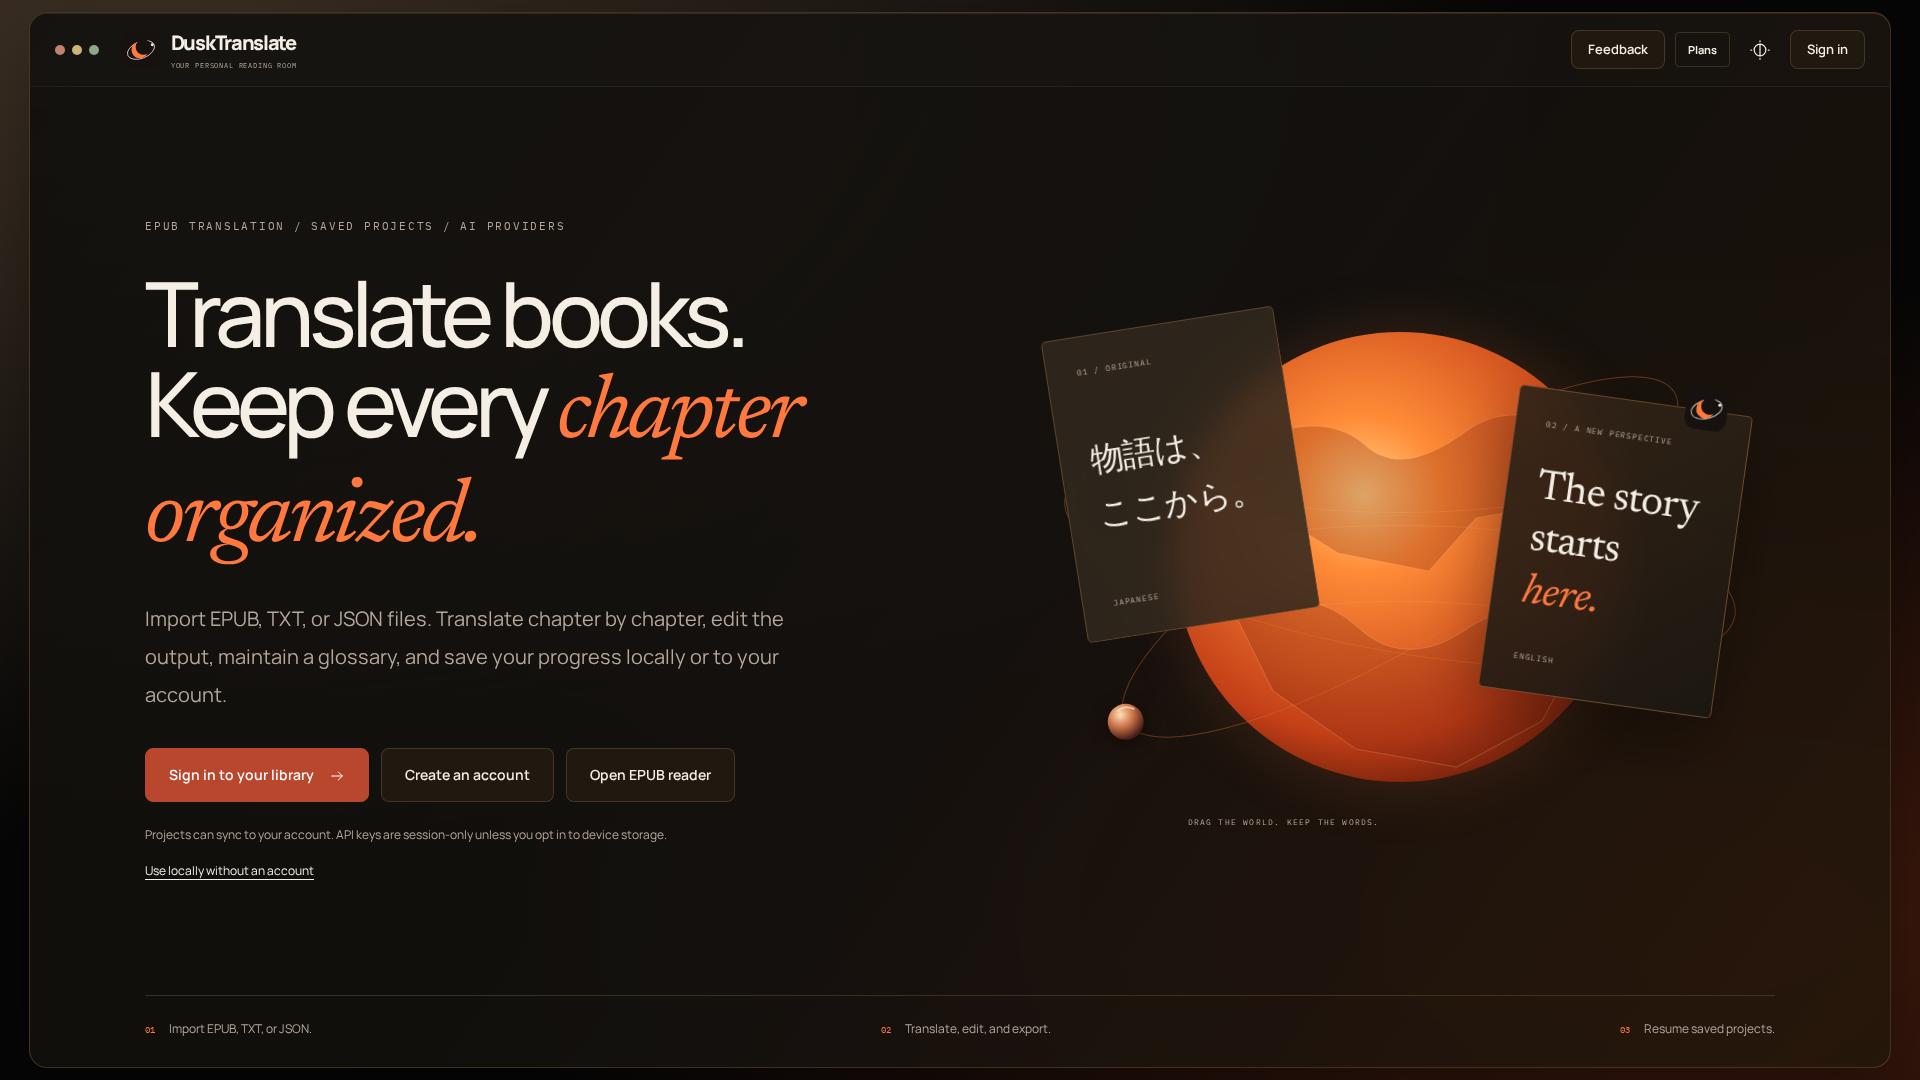
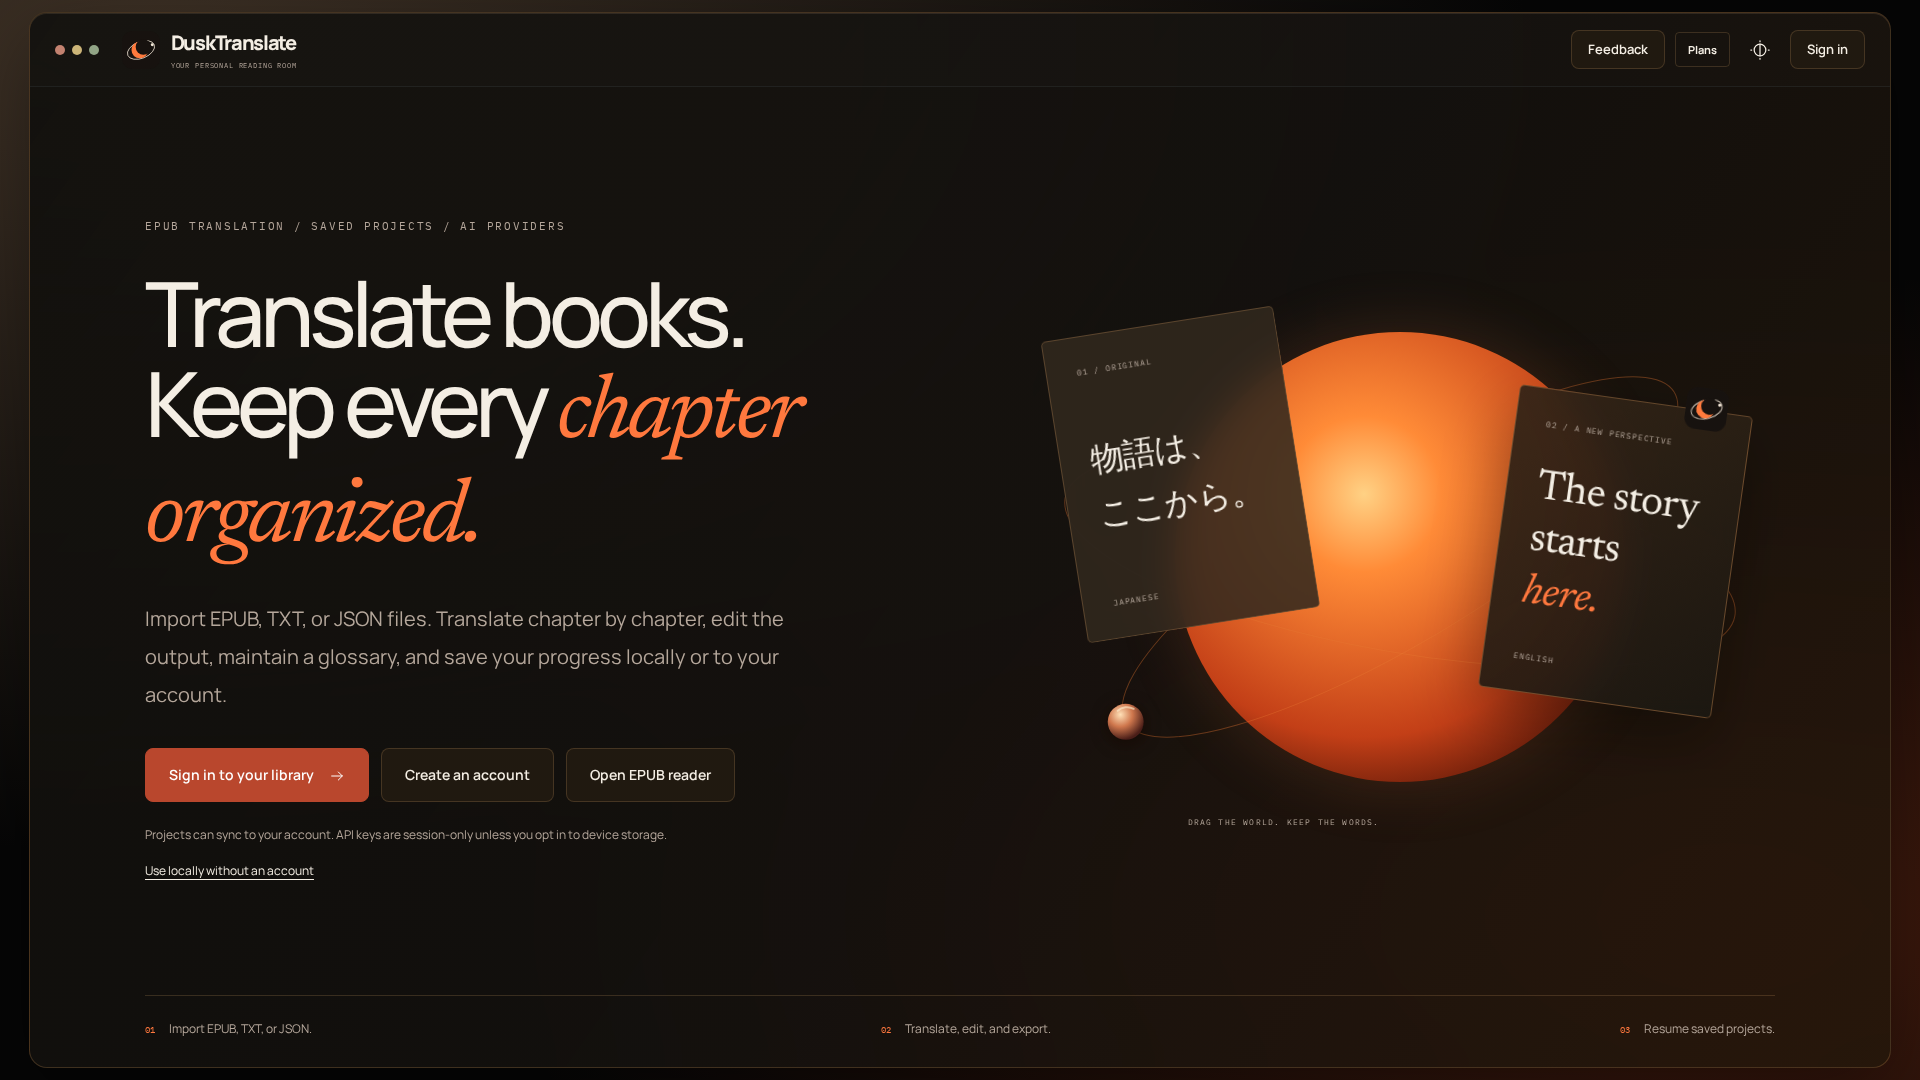
Fix globe dragging, orbit continuity, and card fading

Changed region(s): [[0.6562, 0.3667, 0.7812, 0.55], [0.6562, 0.55, 0.75, 0.6417]]

diff --git a/web/src/welcome-planet.js b/web/src/welcome-planet.js
@@ -1,77 +1,73 @@
-const HEAVEN_THRESHOLD = 1440;
-
 export function createWelcomePlanet(stage, sequence) {
   if (!stage) return { destroy() {} };
-  const rotor=stage.querySelector('.planet-drag-spin'),moons=[...stage.querySelectorAll('.moon-revolution')];
-  const reduceMotion=matchMedia('(prefers-reduced-motion: reduce)').matches;
-  let angle=0,totalTurn=0,pointerId=null,lastX=0,lastTime=0,velocity=0,frame=null,moonFrame=null,moonPhase=Math.PI,moonTime=null,sequenceTimer=null,triggered=false;
-
-  const placeMoon=phase=>{
-    const localX=320*Math.cos(phase),localY=85*Math.sin(phase),tilt=-31*Math.PI/180;
-    const x=350+localX*Math.cos(tilt)-localY*Math.sin(tilt),y=290+localX*Math.sin(tilt)+localY*Math.cos(tilt);
-    for(const moon of moons)moon.setAttribute('transform',`translate(${x.toFixed(2)} ${y.toFixed(2)})`);
-    const front=Math.sin(phase)>=0;
-    stage.querySelector('.moon-front').style.visibility=front?'visible':'hidden';
-    stage.querySelector('.moon-back').style.visibility=front?'hidden':'visible';
-  };
-  const orbitMoon=now=>{
-    const duration=stage.classList.contains('is-spinning')?900:16000;
-    if(moonTime===null)moonTime=now;
-    moonPhase+=(now-moonTime)/duration*Math.PI*2;moonTime=now;placeMoon(moonPhase);
-    moonFrame=requestAnimationFrame(orbitMoon);
-  };
-  placeMoon(moonPhase);
-  if(!reduceMotion)moonFrame=requestAnimationFrame(orbitMoon);
-
-  const render=(speed=0)=>{
-    rotor.style.transform=`rotate(${angle}deg)`;
-    const opacity=Math.max(.08,1-Math.min(Math.abs(speed)/18,.92));
-    stage.style.setProperty('--card-opacity',String(opacity));
-  };
-  const triggerSequence=()=>{
-    if(triggered||!sequence)return;
-    triggered=true;sequence.hidden=false;
-    requestAnimationFrame(()=>sequence.classList.add('is-running'));
-    sequenceTimer=setTimeout(()=>{sequence.classList.remove('is-running');sequence.hidden=true;},6200);
-  };
-  const turn=delta=>{
-    angle+=delta;totalTurn+=Math.abs(delta);render(delta);
-    if(totalTurn>=HEAVEN_THRESHOLD)triggerSequence();
-  };
-  const stopInertia=()=>{if(frame!==null)cancelAnimationFrame(frame);frame=null;};
-  const coast=()=>{
-    angle+=velocity;velocity*=.94;render(velocity);
-    if(Math.abs(velocity)>.08){frame=requestAnimationFrame(coast);return;}
-    frame=null;stage.classList.remove('is-spinning');stage.style.setProperty('--card-opacity','1');
-  };
-  const release=event=>{
-    if(pointerId===null||event.pointerId!==pointerId)return;
-    pointerId=null;stage.classList.remove('is-dragging');
-    try{stage.releasePointerCapture(event.pointerId);}catch{}
-    stopInertia();frame=requestAnimationFrame(coast);
-  };
-  const pointerDown=event=>{
-    if(event.button!==undefined&&event.button!==0)return;
-    stopInertia();pointerId=event.pointerId;lastX=event.clientX;lastTime=performance.now();velocity=0;
-    stage.classList.add('is-dragging','is-spinning');stage.setPointerCapture(event.pointerId);
-  };
-  const pointerMove=event=>{
-    if(event.pointerId!==pointerId)return;
-    const now=performance.now(),elapsed=Math.max(8,now-lastTime),delta=(event.clientX-lastX)*.8;
-    if(!delta)return;
-    velocity=delta*(16/elapsed);lastX=event.clientX;lastTime=now;turn(delta);
-  };
-  const keyDown=event=>{
+  const light = stage.querySelector('#hero-planet');
+  const orbits = [...stage.querySelectorAll('.orbit-back, .orbit-front')];
+  const moons = [...stage.querySelectorAll('.moon-revolution')];
+  const reduced = matchMedia('(prefers-reduced-motion: reduce)').matches;
+  let angle=0, total=0, phase=Math.PI, pointer=null, lastX=0, lastMove=0, distance=0;
+  let velocity=0, previous=null, frame, timer, triggered=false;
+  function render() {
+    const radians=angle*Math.PI/180, tilt=3*Math.sin(radians);
+    light.setAttribute('cx', `${50-8*Math.cos(radians)+12*Math.sin(radians)}%`);
+    light.setAttribute('cy', `${50-14*Math.cos(radians)}%`);
+    // Share one orbital plane so the two halves and moon always meet.
+    for(const orbit of orbits) orbit.setAttribute('transform', `rotate(${tilt} 350 290)`);
+    const plane=(-31+tilt)*Math.PI/180, x=320*Math.cos(phase), y=85*Math.sin(phase);
+    for(const moon of moons) {
+      moon.setAttribute('transform', `translate(${350+x*Math.cos(plane)-y*Math.sin(plane)} ${290+x*Math.sin(plane)+y*Math.cos(plane)})`);
+      moon.style.visibility=moon.classList.contains('moon-front')===(Math.sin(phase)>=0)?'visible':'hidden';
+    }
+    stage.dataset.rotation=String(angle);
+  }
+  function turn(delta) {
+    angle+=delta; phase+=delta*Math.PI/180; total+=Math.abs(delta);
+    if(total>=1440&&!triggered&&sequence) {
+      triggered=true; sequence.hidden=false; sequence.classList.add('is-running');
+      timer=setTimeout(()=>{sequence.hidden=true;sequence.classList.remove('is-running');},6200);
+    }
+    render();
+  }
+  function animate(now) {
+    const elapsed=previous===null?0:now-previous; previous=now;
+    if(pointer===null) {
+      if(Math.abs(velocity)>.005) {
+        const decay=Math.exp(-elapsed/220), delta=velocity*220*(1-decay);
+        angle+=delta; phase+=delta*Math.PI/180; velocity*=decay;
+      } else {
+        velocity=0; stage.classList.remove('is-spinning');
+        if(!reduced){angle+=elapsed*.004;phase+=elapsed*Math.PI*2/16000;}
+      }
+      render();
+    }
+    frame=requestAnimationFrame(animate);
+  }
+  function down(event) {
+    if(event.button!==0||pointer!==null)return;
+    pointer=event.pointerId;lastX=event.clientX;lastMove=performance.now();distance=0;velocity=0;
+    stage.setPointerCapture(pointer);
+  }
+  function move(event) {
+    if(event.pointerId!==pointer)return;
+    const now=performance.now(), dx=event.clientX-lastX;
+    distance+=Math.abs(dx);
+    const delta=dx*360/Math.max(200,stage.clientWidth);
+    velocity=Math.max(-1.5,Math.min(1.5,delta/Math.max(8,now-lastMove)));
+    lastMove=now;lastX=event.clientX;
+    if(distance>3){stage.classList.add('is-dragging','is-spinning');turn(delta);}
+  }
+  function release(event) {
+    if(event.pointerId!==pointer)return;
+    if(performance.now()-lastMove>100||event.type==='pointercancel'||reduced)velocity=0;
+    pointer=null;stage.classList.remove('is-dragging');
+    if(stage.hasPointerCapture(event.pointerId))stage.releasePointerCapture(event.pointerId);
+  }
+  function key(event) {
     if(!['ArrowLeft','ArrowRight'].includes(event.key))return;
-    event.preventDefault();stage.classList.add('is-spinning');velocity=event.key==='ArrowRight'?18:-18;turn(velocity);
-    clearTimeout(stage._keyboardSpinTimer);
-    stage._keyboardSpinTimer=setTimeout(()=>{stopInertia();frame=requestAnimationFrame(coast);},180);
-  };
-
-  stage.addEventListener('pointerdown',pointerDown);
-  stage.addEventListener('pointermove',pointerMove);
-  stage.addEventListener('pointerup',release);
-  stage.addEventListener('pointercancel',release);
-  stage.addEventListener('keydown',keyDown);
-  return {destroy(){stopInertia();if(moonFrame!==null)cancelAnimationFrame(moonFrame);clearTimeout(sequenceTimer);clearTimeout(stage._keyboardSpinTimer);stage.removeEventListener('pointerdown',pointerDown);stage.removeEventListener('pointermove',pointerMove);stage.removeEventListener('pointerup',release);stage.removeEventListener('pointercancel',release);stage.removeEventListener('keydown',keyDown);}};
+    event.preventDefault();stage.classList.add('is-spinning');
+    const delta=event.key==='ArrowRight'?18:-18;turn(delta);velocity=reduced?0:delta/100;
+  }
+  render();frame=requestAnimationFrame(animate);
+  const handlers={pointerdown:down,pointermove:move,pointerup:release,pointercancel:release,keydown:key};
+  for(const [name,handler] of Object.entries(handlers))stage.addEventListener(name,handler);
+  return {destroy(){cancelAnimationFrame(frame);clearTimeout(timer);for(const [name,handler] of Object.entries(handlers))stage.removeEventListener(name,handler);}};
 }

diff --git a/tests/browser/welcome.spec.js b/tests/browser/welcome.spec.js
@@ -35,15 +35,24 @@ test('the welcome planet spins, fades its cards, and rewards sustained rotation'
   const art=page.locator('.welcome-art'),box=await art.boundingBox();
   const visibleMoonLayers=await art.locator('.moon-revolution').evaluateAll((layers)=>layers.filter((layer)=>getComputedStyle(layer).visibility!=='hidden').length);
   expect(visibleMoonLayers).toBe(1);
-  await expect(art.locator('.planet-auto-spin')).not.toHaveCSS('animation-name','none');
+  await expect(art.locator('.planet-surface')).toHaveCount(0);
   await page.mouse.move(box.x+120,box.y+box.height/2);await page.mouse.down();
+  const heldRotation=await art.getAttribute('data-rotation');
+  await page.waitForTimeout(300);
+  expect(await art.getAttribute('data-rotation')).toBe(heldRotation);
+  await expect(art.locator('.source-page')).toHaveCSS('opacity','1');
   await page.mouse.move(box.x+520,box.y+box.height/2,{steps:4});
-  expect(Number(await art.evaluate(node=>getComputedStyle(node).getPropertyValue('--card-opacity')))).toBeLessThan(1);
-  for(let index=0;index<3;index++){
+  await expect(art.locator('.source-page')).toHaveCSS('opacity','0');
+  await expect(art.locator('.translated-page')).toHaveCSS('opacity','0');
+  await expect(art.locator('.source-page')).toHaveCSS('filter','none');
+  expect(Number(await art.getAttribute('data-rotation'))).toBeGreaterThan(Number(heldRotation));
+  expect(await art.locator('.orbit-front').getAttribute('transform')).toBe(await art.locator('.orbit-back').getAttribute('transform'));
+  for(let index=0;index<5;index++){
     await page.mouse.move(box.x+120,box.y+box.height/2,{steps:2});
     await page.mouse.move(box.x+520,box.y+box.height/2,{steps:2});
   }
   await expect(page.locator('#heaven-sequence')).toBeVisible();
   await expect(page.locator('#heaven-sequence')).toContainText('MADE IN HEAVEN');
   await page.mouse.up();
+  await expect(art.locator('.source-page')).toHaveCSS('opacity','1');
 });

diff --git a/web/src/welcome.css b/web/src/welcome.css
@@ -31,23 +31,14 @@ body.eclipse{--paper:#100f0d;--aged:#211911;--panel:#201910;--ink:#f4eee4;--mute
 .welcome-art:focus-visible{outline:1px solid var(--accent)!important;outline-offset:10px;border-radius:50%}
 .welcome-art.is-dragging{cursor:grabbing}
 .planet-scene{z-index:0}
-.specimen{z-index:2;opacity:var(--card-opacity);transition:opacity .32s ease,filter .32s ease}
-.welcome-art.is-spinning .specimen{filter:blur(.8px)}
+.welcome-art .specimen{z-index:2;opacity:1;transition:opacity .22s ease;pointer-events:none}
+.welcome-art.is-spinning .specimen{opacity:0}
 .art-caption{z-index:3}
-.planet-drag-spin,.planet-auto-spin,.orbit-back,.orbit-front{transform-box:view-box;transform-origin:350px 290px}
-.planet-auto-spin{animation:planet-idle-spin 28s linear infinite}
-.planet-surface{fill:#7d240f42;stroke:#ffd28a30;stroke-width:1.2}
-.planet-surface .surface-line{fill:none;stroke:#ffd28a24;stroke-width:1}
-.orbit-back,.orbit-front{stroke:#e8783260;animation:orbit-idle-drift 18s ease-in-out infinite alternate}
-.orbit-front{animation-direction:alternate-reverse}
+.orbit-back,.orbit-front{stroke:#e8783260}
 .moon-revolution{pointer-events:none}
 .moon-back{visibility:hidden}
 .hero-moon{filter:drop-shadow(0 3px 8px #150600aa)}
 .moon-glint{fill:none;stroke:#fff0cf99;stroke-width:2;stroke-linecap:round}
-.welcome-art.is-spinning .planet-auto-spin{animation-duration:1.6s}
-.welcome-art.is-spinning .orbit-back,.welcome-art.is-spinning .orbit-front{animation-duration:1.2s}
-@keyframes planet-idle-spin{to{transform:rotate(360deg)}}
-@keyframes orbit-idle-drift{from{transform:rotate(-2deg)}to{transform:rotate(3deg)}}
 
 .heaven-sequence{position:fixed;inset:0;z-index:2000;display:grid;place-content:center;justify-items:center;overflow:hidden;background:radial-gradient(circle at 50% 46%,#ffb35f55 0 8%,#551e15cc 30%,#080706f7 72%);color:#fff;pointer-events:none;opacity:0}
 .heaven-sequence[hidden]{display:none}

diff --git a/web/index.html b/web/index.html
@@ -38,11 +38,6 @@
           <g class="planet-drag-spin">
             <g class="planet-auto-spin">
               <circle class="hero-planet" cx="350" cy="290" r="225" fill="url(#hero-planet)"/>
-              <g class="planet-surface" clip-path="url(#hero-planet-clip)">
-                <path d="M164 198c58-42 115-52 151-20 30 27 66 12 103-15 33-24 82-19 119 14l-18 57-93 17-47 53-91-18-67-42z"/>
-                <path d="M188 353c47-31 88-22 122 9 31 28 69 26 105 1 42-29 81-24 116 18l-39 73-85 46-101-18-83-58z"/>
-                <path class="surface-line" d="M122 290c102-42 354-42 456 0M143 220c112 34 302 34 414 0M143 360c112-34 302-34 414 0"/>
-              </g>
             </g>
           </g>
           <g class="orbit-front" fill="none" stroke-width="1"><path d="M 340 0 A 340 95 0 0 1 -340 0" transform="translate(350 290) rotate(10)"/><path d="M 320 0 A 320 85 0 0 1 -320 0" transform="translate(350 290) rotate(-31)"/></g>

diff --git a/web/src/releases.js b/web/src/releases.js
@@ -1,4 +1,8 @@
 export const RELEASES=Object.freeze([
+  Object.freeze({id:'2026-10-12-v041',date:'2026-10-12',title:'A smoother spin',items:Object.freeze([
+    'The smooth orange globe returns with moving lighting, connected orbits, and rotation controlled by dragging.',
+    'Cards fade completely during a spin and return afterward, with no blur or click-triggered acceleration.',
+  ])}),
   Object.freeze({id:'2026-10-12-v040',date:'2026-10-12',title:'A world in motion',items:Object.freeze([
     'The landing-page planet, orbit lines, and moon now move, and the globe can be spun with a pointer, touch, or keyboard.',
     'Plan details now describe supported providers, language routes, and the complete Teams review pipeline.',

diff --git a/README.md b/README.md
@@ -12,7 +12,7 @@
 
 <p align="center">
   <a href="https://www.dusktranslate.com"><img alt="Open DuskTranslate" src="https://img.shields.io/badge/open-DuskTranslate-ff713b?style=for-the-badge" /></a>
-  <img alt="Web release 0.4.0" src="https://img.shields.io/badge/web_release-v0.4.0-17120f?style=for-the-badge" />
+  <img alt="Web release 0.4.1" src="https://img.shields.io/badge/web_release-v0.4.1-17120f?style=for-the-badge" />
   <img alt="Hosted on Vercel" src="https://img.shields.io/badge/hosted_on-Vercel-000000?style=for-the-badge&logo=vercel" />
 </p>
 

diff --git a/docs/RELEASE-NOTES.md b/docs/RELEASE-NOTES.md
@@ -1,5 +1,12 @@
 # Release Notes
 
+## 0.4.1 - 2026-10-12
+
+- Restored the smooth orange planet with moving directional lighting.
+- Kept orbit halves and the moon aligned in one shared orbital plane.
+- Made rotation follow dragging with momentum on release; clicking alone does not accelerate it.
+- Cards now fade fully away during dragging without blur and return as momentum settles.
+
 ## 0.4.0 - 2026-10-12
 
 - Updated plan details for supported providers, language routes, and the complete Teams review workflow.
